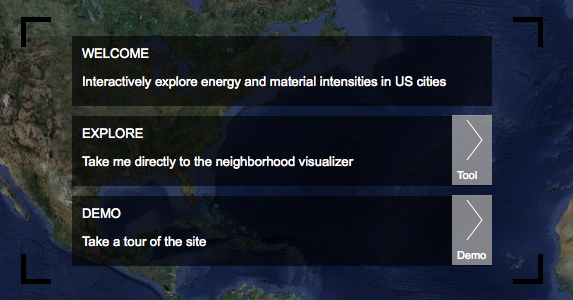
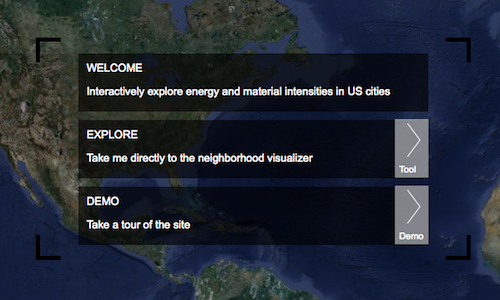
Edited images for the projects of nuvu and urbmet

diff --git a/index.html b/index.html
@@ -49,11 +49,11 @@
 					<div class="project-image-main">
 						<div class="slider-wrapper theme-light">
 							<div id="sliderurbmet" class="nivoSlider">
+								<img src="images/urbmetMain0.png">
 								<img src="images/urbmetMain1.png">
 								<img src="images/urbmetMain2.png">
 								<img src="images/urbmetMain3.png">
 								<img src="images/urbmetMain4.png">
-								<img src="images/urbmetover.png">
 							</div>
 						</div>
 					</div>
@@ -70,8 +70,11 @@
 						<div class="slider-wrapper theme-light">
 							<div id="sliderrasclass" class="nivoSlider">
 								<img src="images/rasclassMain1.png">
+								<img src="images/nuvuMain0.png">
+								<img src="images/nuvuMain1.png">
 								<img src="images/nuvuMain2.png">
 								<img src="images/nuvuMain3.png">
+								<img src="images/nuvuMain4.png">
 							</div>
 						</div>
 					</div>
@@ -88,11 +91,11 @@
 					<div class="project-image-main">
 						<div class="slider-wrapper theme-light">
 							<div id="slidernuvu" class="nivoSlider">
+								<img src="images/nuvuMain0.png">
 								<img src="images/nuvuMain1.png">
 								<img src="images/nuvuMain2.png">
 								<img src="images/nuvuMain3.png">
-								<img src="images/nuvuMain4.png">
-								<img src="images/nuvuMain5.png">								
+								<img src="images/nuvuMain4.png">						
 							</div>
 						</div>
 					</div>
@@ -157,11 +160,15 @@
 			<div class="title" > who we are </div>				
 		
 			<div class="text_left">		
-			david									
+			<img src="images/david.png">
+			<p>David</p>
+			Studied civil engineering in Dublin. After working briefly as an engineer, he started studying for a master’s in MIT in 2006. As part of his master’s research, David worked closely with the City of New Orleans after Hurricane Katrina, co-authoring their plan for sustainability. David graduated with a PhD from the Building Technology Program in the Department of Architecture in MIT in 2012. His research focus is on sustainability in urban areas and for his PhD he worked on developing tools and methods to understand how urban sustainability can be assessed and visualized.									
 			</div> <!-- people div -->	
 
-			<div class="text_right">		
-			daniel										
+			<div class="text_right">	
+			<img src="images/daniel.png">	
+			<p>Daniel</p>
+			Studied physics in ETH-Zurich. For his master’s thesis, Daniel collaborated with physicists at CERN and developed a particle reconstruction method for the CMS experiment at the Large Hadron Collider in Geneva. He then moved to Lisbon to study at the Technical University of Lisbon (IST) for a PhD in the area of renewable energy from which he graduated in 2012. His research focused on identifying drivers of energy use in urban areas using spatial statistics; this included writing a statistics package (rasclass) for the R programming environment for land-use classification.
 			</div> <!-- people div -->		
 			
 			<!-- ---------------- FOOTER ---------------- -->
